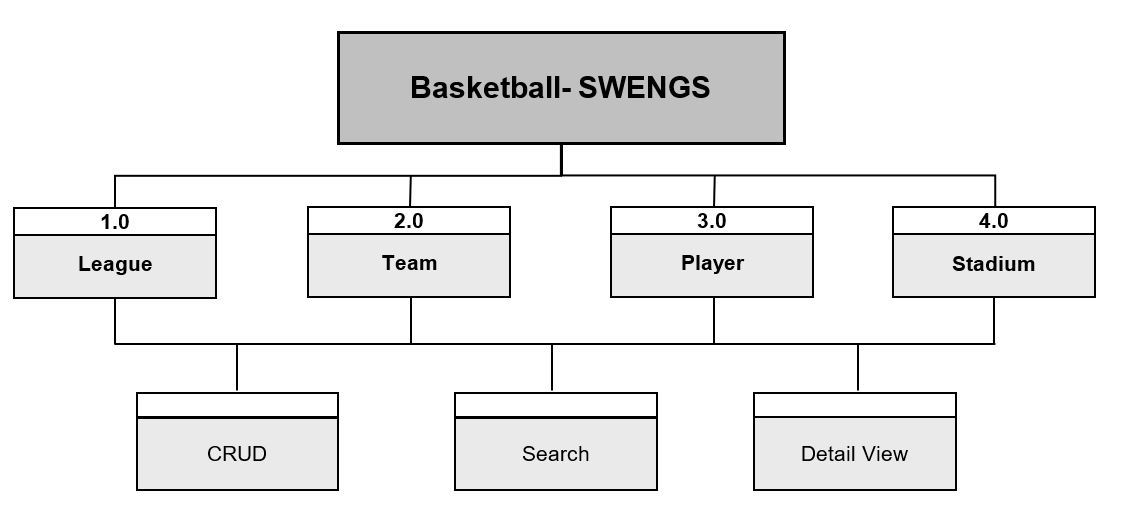
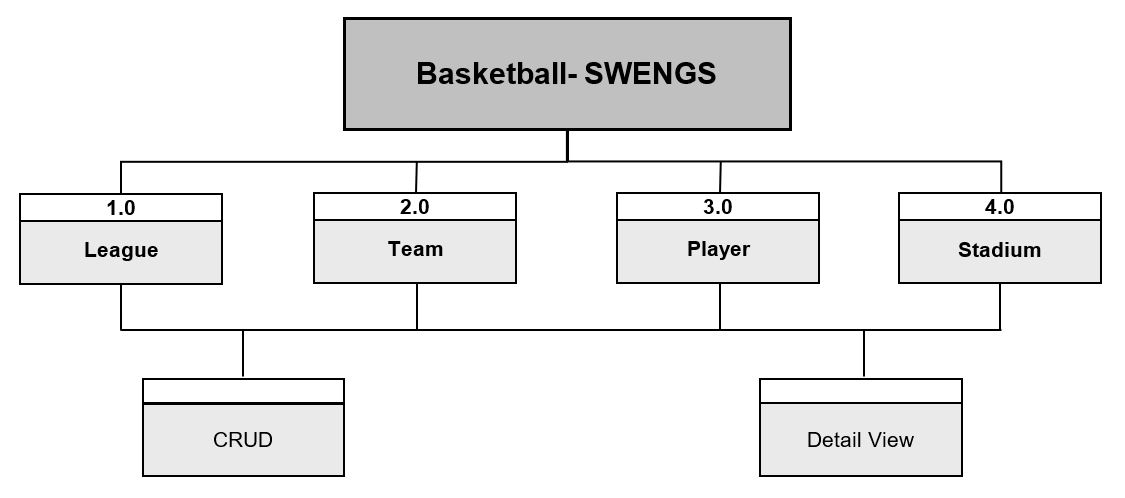
update

diff --git a/basketball-app/src/basketball/impressum/impressum.component.html b/basketball-app/src/basketball/impressum/impressum.component.html
@@ -1,29 +1,31 @@
 <div class="container3">
-<h2>Impressum</h2>
+  <h2>Impressum</h2>
 
-<p>This website was created in the course of the lecture Software Engineering Selective as a student project under the instruction of the professors DI (FH) Johann Blauensteiner
-  and DI (FH) Manfred Steyer M.Comp.Sc . This course is part of the fifth semester of the bachelor degree program Information Managment at University of Applied Science in Graz. </p>
-
-
-<p>
-  Students involved in this project are:
-<ul>
-  <li> Carina Cölestin </li>
-  <li> Vanessa Fortmüller </li>
-  <li> Nikolaus Hribernig </li>
-  <li> Patrick Plank </li>
-
-</ul>
+  <p>This website was created in the course of the lecture Software Engineering Selective as a student project under the instruction of the professors DI (FH) Johann Blauensteiner
+    and DI (FH) Manfred Steyer M.Comp.Sc . This course is part of the fifth semester of the bachelor degree program Information Managment at University of Applied Science in Graz. </p>
 
 
+  <p>
+    Students involved in this project are:
+  <ul>
+    <li> Carina Cölestin </li>
+    <li> Vanessa Fortmüller </li>
+    <li> Nikolaus Hribernig </li>
+    <li> Patrick Plank </li>
 
-<h2> Contact</h2>
-<p>  Institution: <a href="https://www.fh-joanneum.at" target="_blank"> FH JOANNEUM Gesellschaft mbH</a><br>
-  Address: <a href="https://www.google.at/maps/place/Fachhochschule+Joanneum/@47.069313,15.40799,17z/data=!3m1!4b1!4m2!3m1!1s0x476e350ee5b5f885:0xdcf52580ffd6a24e?hl=de" target="_blank" >
-     Alte Poststrasse 149 , A-8020 Graz<br> </a>
-  Phone:<a href="tel:+4331654530">  +43 (0)316 5453-0 </a><br>
-  Fax:<a href="fax:+4331654538801"> +43 (0)316 5453-8801 </a><br>
-  E-Mail: <a href="mailto:info@fh-joanneum.at">info@fh-joanneum.at</a><br><br><br>
-  Course of Studies: <a href="https://www.fh-joanneum.at/informationsmanagement/bachelor/" target="_blank">IMA15</a><br><br>
-</p>
+  </ul>
+
+
+
+  <h2> Contact</h2>
+  <p>  Institution: <a href="https://www.fh-joanneum.at" target="_blank"> FH JOANNEUM Gesellschaft mbH</a><br>
+    Address: <a href="https://www.google.at/maps/place/Fachhochschule+Joanneum/@47.069313,15.40799,17z/data=!3m1!4b1!4m2!3m1!1s0x476e350ee5b5f885:0xdcf52580ffd6a24e?hl=de" target="_blank" >
+      Alte Poststrasse 149 , A-8020 Graz<br> </a>
+    Phone:<a href="tel:+4331654530">  +43 (0)316 5453-0 </a><br>
+    Fax:<a href="fax:+4331654538801"> +43 (0)316 5453-8801 </a><br>
+    E-Mail: <a href="mailto:info@fh-joanneum.at">info@fh-joanneum.at</a><br><br><br>
+    Course of Studies: <a href="https://www.fh-joanneum.at/informationsmanagement/bachelor/" target="_blank">IMA15</a><br><br>
+  </p>
+
+
 </div>

diff --git a/README.md b/README.md
@@ -82,8 +82,8 @@ To see the changes and updates happening in our project we used GitHub as workin
 So it was possible to be up to date all the time and have a focus on the effort. In addition we create  
 a Whatsapp Group for daily communication. Furthermore we had regular meetings to discuss the progress  
 and work together. The Whiteboard and flipchart were important elements to talk about the project-structure and other details... 
-
-![Strukturplan](projectdocu/Strukturplan.jpg)  
+ 
+![Strukturplan](projectdocu/Strukturplan.jpg) 
 
 # Features
 
@@ -141,16 +141,16 @@ erweiterte Security durch OATH2
 | -----------------	| -----------------	| ----------------	| --------------	|
 | League - Entity   | Stadium - Entity  | Player - Entity 	| Teams - Entity  	|
 | Documentation 	| Design        	| Database       	| Backend           |
-| View Component  	| Formulare   	    | Backend           | Search    	    |
+| View Component  	| Formulare   	    | Backend           | Support        	|
 | Presentation      | Validierung       | Foreign Keys      | Security          |
 | HTML / CSS        | HTML / CSS      	| CRUD              | CRUD        	    |
-| CRUD              | CRUD         	    | Filter  	        | Testdaten         |
+| CRUD              | CRUD         	    | Support    	    | Testdaten         |
 | Testdata etc.     | etc.         	    | etc.   	        | etc.     	        |
 
 
 # Lessons Learned  
 
-* Timemanagement very hard because of
+* Time Management very hard because of
     * other projects  
     * because team members are part of different groups - so they have different timetables
 * to read in new topics – very time-comsuming
